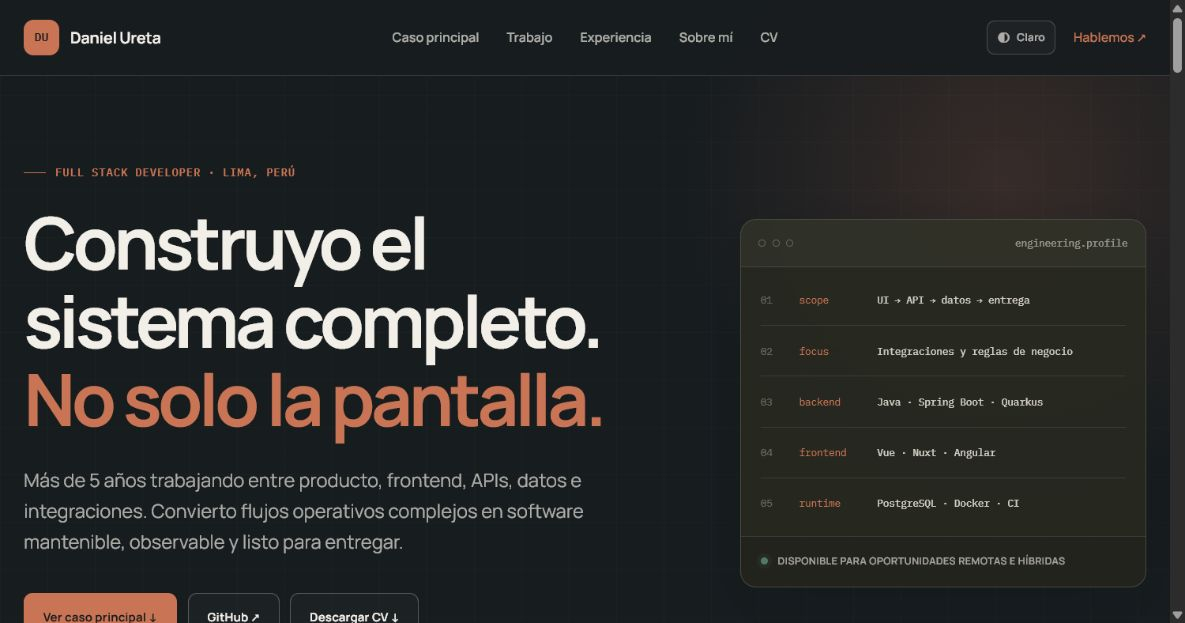
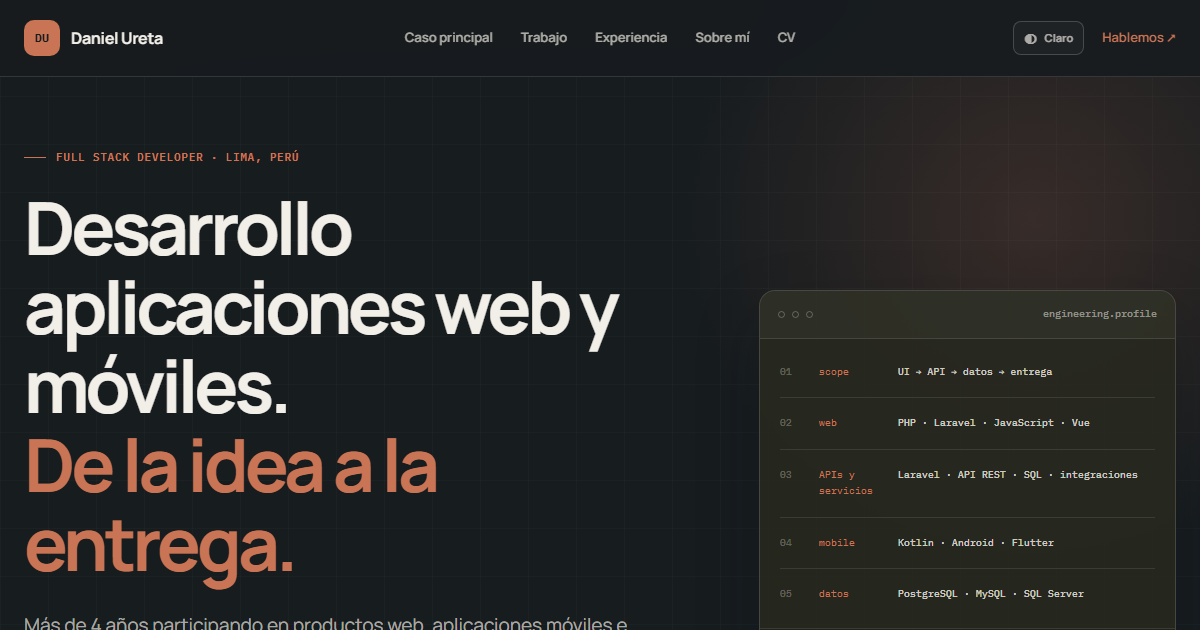
refactor: align portfolio with verified full-stack experience

diff --git a/index.html b/index.html
@@ -5,7 +5,7 @@
     <meta name="viewport" content="width=device-width, initial-scale=1" />
     <meta
       name="description"
-      content="Portafolio de Daniel Ureta Espinal, desarrollador Full Stack de aplicaciones web y móviles con Kotlin, Laravel, Vue, APIs REST y PostgreSQL."
+      content="Portafolio de Daniel Ureta Espinal, desarrollador Full Stack con experiencia en Laravel, Vue, aplicaciones web, Android e integraciones API."
     />
     <meta name="theme-color" content="#171c1f" />
     <script>
@@ -82,9 +82,9 @@
             <p class="kicker"><span aria-hidden="true"></span> Full Stack Developer · Lima, Perú</p>
             <h1>Desarrollo aplicaciones web y móviles.<br /><em>De la idea a la entrega.</em></h1>
             <p class="hero-lead">
-              Más de 5 años creando productos web, apps móviles y APIs para facturación, educación,
-              finanzas y servicios. Trabajo con interfaces claras, lógica de negocio, bases de datos e
-              integraciones que resuelven procesos reales.
+              Más de 4 años participando en productos web, aplicaciones móviles e integraciones para
+              facturación, educación y servicios. Trabajo con interfaces, lógica de negocio, bases de
+              datos y APIs que resuelven procesos reales.
             </p>
             <div class="hero-actions">
               <a class="button button-accent" href="#caso">Ver caso principal ↓</a>
@@ -97,9 +97,9 @@
             <div class="console-bar"><span></span><span></span><span></span><b>engineering.profile</b></div>
             <div class="console-body">
               <p><i>01</i><span>scope</span><strong>UI → API → datos → entrega</strong></p>
-              <p><i>02</i><span>web</span><strong>JavaScript · Vue · Angular · Laravel</strong></p>
-              <p><i>03</i><span>APIs y servicios</span><strong>Laravel · Node.js · API REST · SQL</strong></p>
-              <p><i>04</i><span>mobile</span><strong>Kotlin · Jetpack Compose · Flutter</strong></p>
+              <p><i>02</i><span>web</span><strong>PHP · Laravel · JavaScript · Vue</strong></p>
+              <p><i>03</i><span>APIs y servicios</span><strong>Laravel · API REST · SQL · integraciones</strong></p>
+              <p><i>04</i><span>mobile</span><strong>Kotlin · Android · Flutter</strong></p>
               <p><i>05</i><span>datos</span><strong>PostgreSQL · MySQL · SQL Server</strong></p>
             </div>
             <div class="availability"><span></span> Disponible para oportunidades remotas e híbridas</div>
@@ -109,7 +109,7 @@
 
       <section class="evidence-bar" aria-label="Indicadores del perfil">
         <div class="shell evidence-grid">
-          <p><strong>5+</strong><span>años construyendo producto</span></p>
+          <p><strong>4+</strong><span>años en desarrollo e integraciones</span></p>
           <p><strong>5</strong><span>dominios de negocio</span></p>
           <p><strong>E2E</strong><span>interfaz, backend y entrega</span></p>
           <p><strong>PE / REMOTE</strong><span>base en Lima</span></p>
@@ -121,79 +121,69 @@
           <div class="section-intro case-intro">
             <div>
               <p class="kicker dark"><span aria-hidden="true"></span> Caso Full Stack 001</p>
-              <h2>FieldOps Service Platform<br />Operaciones de campo, incluso sin conexión</h2>
+              <h2>School Voting Platform<br />Elecciones escolares con trazabilidad</h2>
             </div>
             <p>
-              Plataforma personal de órdenes de servicio que conecta una app Android para técnicos, una
-              API Laravel y un panel web de coordinación. El flujo prioriza continuidad offline, permisos,
-              trazabilidad y sincronización segura cuando vuelve la conectividad.
+              Aplicación desarrollada para administrar alumnos, controlar la emisión del voto y consultar
+              resultados. El proyecto evolucionó mediante iteraciones reales y combina interfaz Vue/Nuxt,
+              endpoints de servidor, Supabase e importación y exportación de archivos.
             </p>
           </div>
 
           <div class="case-meta" aria-label="Ficha del proyecto">
-            <div><span>ROL</span><strong>Arquitectura + implementación end-to-end</strong></div>
-            <div><span>PRODUCTO</span><strong>Kotlin / Compose · Vue 3 / TypeScript</strong></div>
-            <div><span>BACKEND</span><strong>Laravel 12 · PostgreSQL · API REST</strong></div>
-            <div><span>CALIDAD</span><strong>Pruebas · Docker · sincronización offline</strong></div>
+            <div><span>PRODUCTO</span><strong>Plataforma de votación escolar</strong></div>
+            <div><span>FRONTEND</span><strong>Nuxt 4 · Vue 3 · TypeScript</strong></div>
+            <div><span>DATOS</span><strong>Supabase · ExcelJS · CSV</strong></div>
+            <div><span>ENTREGA</span><strong>Vercel · GitHub · historial iterativo</strong></div>
           </div>
 
           <div class="problem-grid">
             <article>
               <p class="index">01 / PROBLEMA</p>
-              <h3>El trabajo en campo no puede detenerse cada vez que la conexión se vuelve inestable.</h3>
-              <p>
-                Técnicos y coordinadores deben mantener alineados estados, prioridades, evidencias y
-                responsables sin perder cambios ni depender de registros manuales separados.
-              </p>
+              <h3>Administrar una elección escolar sin duplicar votos ni perder el control por sección.</h3>
+              <p>Docentes y administradores necesitan importar alumnos, verificar quién puede votar, seguir el avance por salón y consultar resultados desde una sola aplicación.</p>
             </article>
             <article>
-              <p class="index">02 / DECISIÓN</p>
-              <h3>Una experiencia offline-first en el móvil y una vista operativa central para coordinar.</h3>
-              <p>
-                Room conserva la agenda y una cola persistente; Laravel aplica permisos, idempotencia y
-                estados válidos; el panel Vue permite supervisar la operación desde un solo lugar.
-              </p>
+              <p class="index">02 / SOLUCIÓN</p>
+              <h3>Un flujo Full Stack con roles, validaciones y operaciones privilegiadas en el servidor.</h3>
+              <p>Nuxt organiza la experiencia; los endpoints del servidor protegen las operaciones administrativas y Supabase mantiene alumnos, sesiones y resultados.</p>
             </article>
           </div>
 
-          <div class="architecture" aria-label="Arquitectura de FieldOps Service Platform">
-            <div><span>01</span><strong>Android Kotlin / Compose</strong><small>Room + cola offline persistente</small></div>
+          <div class="architecture" aria-label="Arquitectura de School Voting Platform">
+            <div><span>01</span><strong>Nuxt / Vue</strong><small>login, alumnos, votación y resultados</small></div>
             <b aria-hidden="true">↔</b>
-            <div><span>02</span><strong>API Laravel</strong><small>RBAC, estados e idempotencia</small></div>
+            <div><span>02</span><strong>Server API</strong><small>validación y operaciones privilegiadas</small></div>
             <b aria-hidden="true">↔</b>
-            <div><span>03</span><strong>PostgreSQL</strong><small>órdenes, evidencia y auditoría</small></div>
+            <div><span>03</span><strong>Supabase</strong><small>autenticación y persistencia</small></div>
             <b aria-hidden="true">↔</b>
-            <div><span>04</span><strong>Panel Vue</strong><small>despacho, filtros y seguimiento</small></div>
+            <div><span>04</span><strong>Excel / CSV</strong><small>carga y exportación de información</small></div>
           </div>
 
           <div class="case-evidence">
             <div class="evidence-copy">
               <p class="index">03 / EVIDENCIA</p>
-              <h3>Un producto verificable de extremo a extremo.</h3>
-              <p>
-                La demo web usa datos locales claramente rotulados. El repositorio reúne los tres clientes
-                del sistema, decisiones de arquitectura, ejecución reproducible y pruebas automatizadas.
-              </p>
+              <h3>Proyecto funcional con demo y evolución verificable.</h3>
+              <p>El repositorio conserva una secuencia de mejoras sobre reglas de votación, secciones, plantillas de Excel y despliegue; no es un proyecto creado únicamente para rellenar el CV.</p>
               <ul>
-                <li><span>✓</span> App Android con Room, agenda y cola offline</li>
-                <li><span>✓</span> API con RBAC, máquina de estados e idempotencia</li>
-                <li><span>✓</span> Panel Vue responsive con filtros y detalle operativo</li>
-                <li><span>✓</span> PostgreSQL, auditoría, pruebas y contenedores</li>
+                <li><span>✓</span> Administración e importación masiva de alumnos</li>
+                <li><span>✓</span> Control de voto emitido y voto en blanco configurable</li>
+                <li><span>✓</span> Seguimiento por salón y resultados agregados</li>
+                <li><span>✓</span> Separación entre credenciales públicas y servidor</li>
               </ul>
               <div class="verification-row" aria-label="Verificaciones del proyecto">
-                <span><i aria-hidden="true"></i> Pruebas automatizadas</span>
-                <span>Offline-first</span>
-                <span>Modo demo identificado</span>
+                <span><i aria-hidden="true"></i> Demo desplegada</span>
+                <span>Código público</span>
+                <span>Historial real</span>
               </div>
-              <a class="button button-dark" href="https://daniel349167.github.io/fieldops-service-platform/" target="_blank" rel="noreferrer">Abrir demo web ↗</a>
-              <a class="button button-dark" href="https://github.com/Daniel349167/fieldops-service-platform" target="_blank" rel="noreferrer">Examinar repositorio ↗</a>
-              <a class="button button-dark" href="https://github.com/Daniel349167/fieldops-service-platform/releases/latest" target="_blank" rel="noreferrer">Ver APK / release ↗</a>
+              <a class="button button-dark" href="https://votacion-escolar-8161.vercel.app" target="_blank" rel="noreferrer">Abrir demo ↗</a>
+              <a class="button button-dark" href="https://github.com/Daniel349167/school-voting-platform" target="_blank" rel="noreferrer">Examinar repositorio ↗</a>
             </div>
 
             <figure class="product-shot">
-              <div class="product-shot-bar"><span>FieldOps Admin / Modo demo</span><strong><i aria-hidden="true"></i> Datos demostrativos</strong></div>
-              <img src="assets/fieldops-dashboard.png" alt="Panel de operaciones de FieldOps con métricas y órdenes de servicio" width="1440" height="1000" loading="lazy" />
-              <figcaption>Dashboard Vue en modo demo con datos locales rotulados; no contiene información de clientes reales.</figcaption>
+              <div class="product-shot-bar"><span>School Voting Platform</span><strong><i aria-hidden="true"></i> Proyecto verificable</strong></div>
+              <img src="assets/school-voting-login.png" alt="Pantalla de acceso de School Voting Platform" width="1440" height="1000" loading="lazy" />
+              <figcaption>Aplicación Nuxt/Vue desplegada con autenticación, administración y resultados.</figcaption>
             </figure>
           </div>
         </div>
@@ -204,49 +194,49 @@
           <div class="section-intro work-intro">
             <div>
               <p class="kicker"><span aria-hidden="true"></span> Trabajo seleccionado</p>
-              <h2>Productos que muestran<br />un perfil completo.</h2>
+              <h2>Proyectos desarrollados<br />y verificables.</h2>
             </div>
-            <p>Una selección de aplicaciones web, móviles y de producto para revisar interfaz, APIs, datos y entrega.</p>
+            <p>Esta selección prioriza proyectos con historial real, código disponible y un propósito concreto.</p>
           </div>
 
           <div class="work-list">
             <article class="work-item">
               <p class="work-number">02</p>
               <div>
-                <p class="work-label">WEB APP / OPERATIONS <span class="verified">● CÓDIGO</span></p>
-                <h3>Client Workboard</h3>
-                <p>Tablero Full Stack para organizar tareas de clientes, con autenticación, métricas y flujos de trabajo por usuario.</p>
+                <p class="work-label">WEB / SERVICIOS <span class="verified">● DEMO + CÓDIGO</span></p>
+                <h3>Dental Clinic Website</h3>
+                <p>Sitio multilingüe para una clínica dental, con páginas de tratamientos, reserva de citas y componentes reutilizables.</p>
               </div>
-              <ul><li>Laravel 12</li><li>Vue 3</li><li>JWT</li><li>API REST</li></ul>
-              <div class="work-actions"><a href="https://github.com/Daniel349167/client-workboard-laravel-vue" target="_blank" rel="noreferrer" aria-label="Ver código de Client Workboard">Código ↗</a></div>
+              <ul><li>Astro</li><li>Vue 3</li><li>CSS</li><li>Vercel</li></ul>
+              <div class="work-actions">
+                <a href="https://clinica-dental-lemon.vercel.app" target="_blank" rel="noreferrer" aria-label="Abrir demo de Dental Clinic Website">Demo ↗</a>
+                <a href="https://github.com/Daniel349167/dental-clinic-website" target="_blank" rel="noreferrer" aria-label="Ver código de Dental Clinic Website">Código ↗</a>
+              </div>
             </article>
 
             <article class="work-item">
               <p class="work-number">03</p>
               <div>
-                <p class="work-label">WEB APP / QUOTES <span class="verified">● CÓDIGO</span></p>
-                <h3>QuoteFlow</h3>
-                <p>Workspace Full Stack para cotizaciones y seguimientos con API tipada, persistencia PostgreSQL, migraciones, pruebas y CI.</p>
+                <p class="work-label">ALGORITMOS / OPERACIONES <span class="verified">● DEMO + CÓDIGO</span></p>
+                <h3>Supervisor Scheduling Engine</h3>
+                <p>Motor de programación de turnos que aplica reglas operativas mediante búsqueda DFS, memoización y validaciones.</p>
               </div>
-              <ul><li>React</li><li>TypeScript</li><li>PostgreSQL</li><li>Docker</li></ul>
+              <ul><li>React</li><li>Vite</li><li>JavaScript</li><li>DFS</li></ul>
               <div class="work-actions">
-                <a href="https://daniel349167.github.io/quote-flow-react-node/" target="_blank" rel="noreferrer" aria-label="Abrir demo de QuoteFlow">Demo ↗</a>
-                <a href="https://github.com/Daniel349167/quote-flow-react-node" target="_blank" rel="noreferrer" aria-label="Ver código de QuoteFlow">Código ↗</a>
+                <a href="https://daniel349167.github.io/supervisor-scheduling-engine/" target="_blank" rel="noreferrer" aria-label="Abrir demo de Supervisor Scheduling Engine">Demo ↗</a>
+                <a href="https://github.com/Daniel349167/supervisor-scheduling-engine" target="_blank" rel="noreferrer" aria-label="Ver código de Supervisor Scheduling Engine">Código ↗</a>
               </div>
             </article>
 
             <article class="work-item">
               <p class="work-number">04</p>
               <div>
-                <p class="work-label">WEB APP / EDUCATION <span class="verified">● DEMO + CÓDIGO</span></p>
-                <h3>School Voting Platform</h3>
-                <p>Plataforma de votación escolar con autenticación, roles, administración de alumnos y resultados demostrativos claramente rotulados.</p>
+                <p class="work-label">INVESTIGACIÓN / BACKEND <span class="verified">● CÓDIGO</span></p>
+                <h3>Homomorphic Lending Demo</h3>
+                <p>Simulación educativa de préstamos P2P que explora operaciones sobre datos cifrados y persistencia relacional.</p>
               </div>
-              <ul><li>Nuxt 4</li><li>Vue 3</li><li>TypeScript</li><li>Supabase</li></ul>
-              <div class="work-actions">
-                <a href="https://votacion-escolar-8161.vercel.app" target="_blank" rel="noreferrer" aria-label="Abrir demo de School Voting Platform">Demo ↗</a>
-                <a href="https://github.com/Daniel349167/school-voting-platform" target="_blank" rel="noreferrer" aria-label="Ver código de School Voting Platform">Código ↗</a>
-              </div>
+              <ul><li>Python</li><li>Flask</li><li>TenSEAL</li><li>MySQL</li></ul>
+              <div class="work-actions"><a href="https://github.com/Daniel349167/homomorphic-lending-demo" target="_blank" rel="noreferrer" aria-label="Ver código de Homomorphic Lending Demo">Código ↗</a></div>
             </article>
           </div>
         </div>
